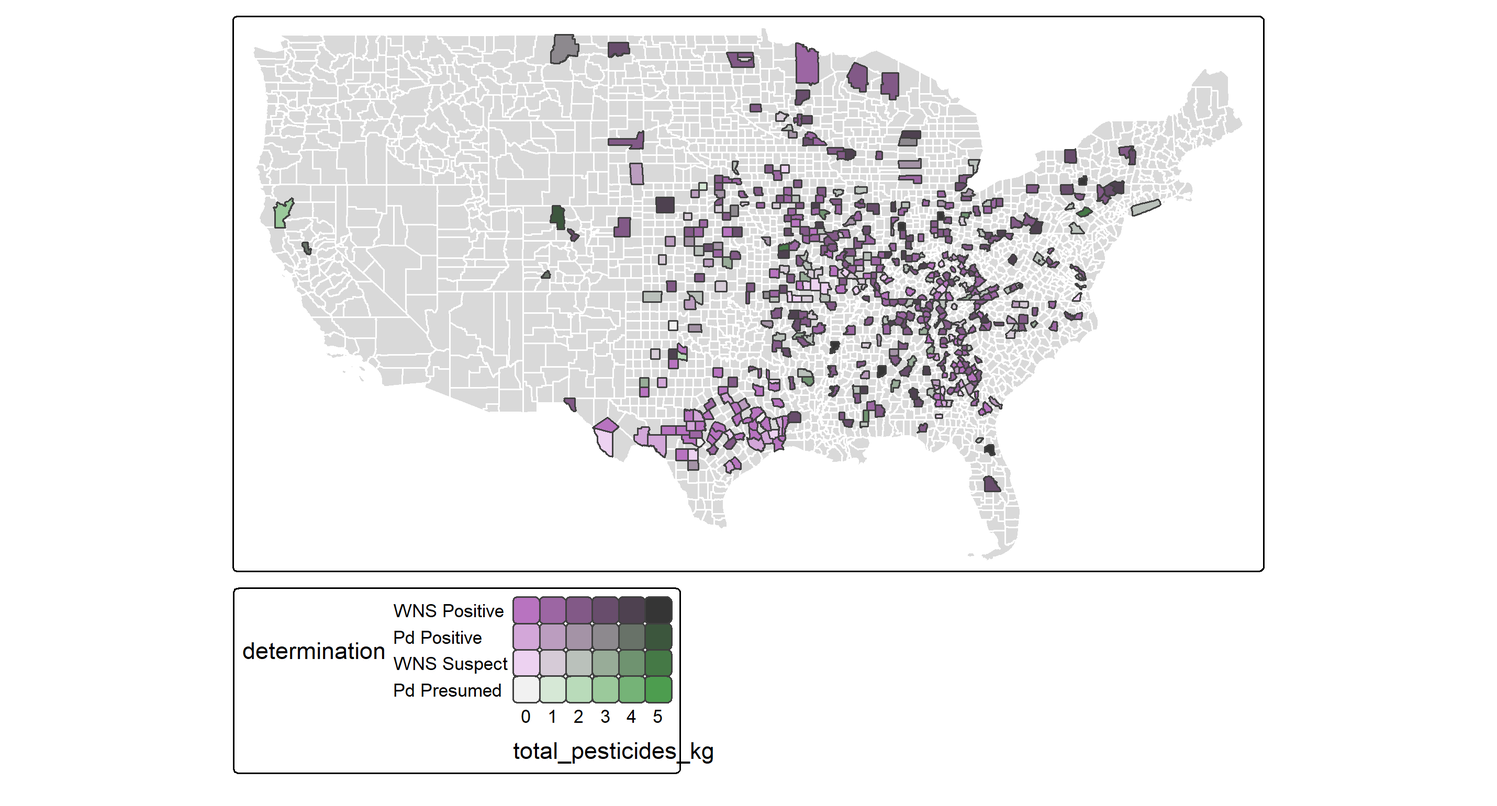
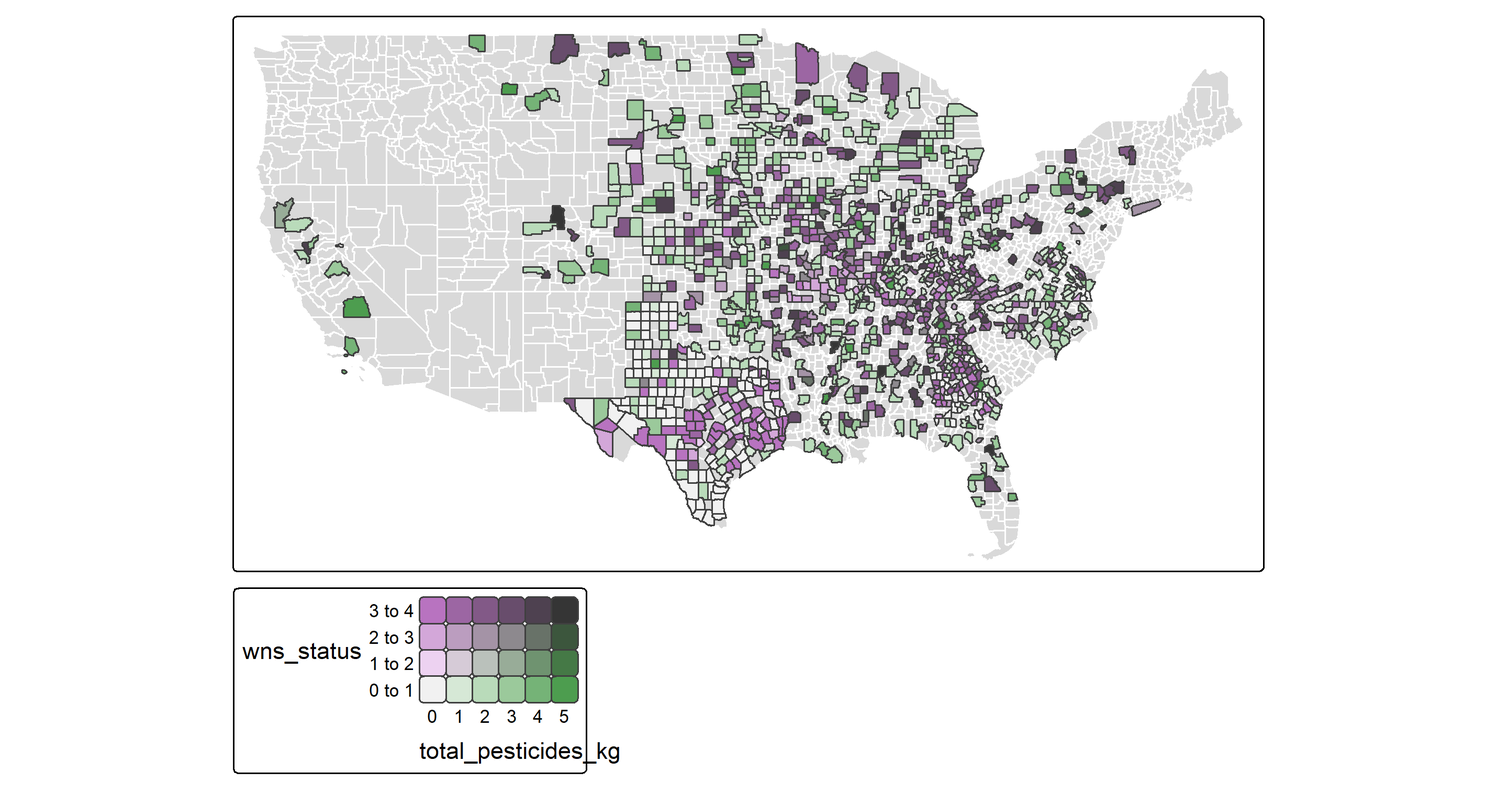
thurs morn work sesh :)

diff --git a/esm217-wns.html b/esm217-wns.html
@@ -7,7 +7,7 @@
 <meta name="viewport" content="width=device-width, initial-scale=1.0, user-scalable=yes">
 
 <meta name="author" content="Madi Calbert &amp; Steven Mitchell">
-<meta name="dcterms.date" content="2025-02-06">
+<meta name="dcterms.date" content="2025-02-13">
 
 <title>White-Nose Syndrome and Pesticides</title>
 <style>
@@ -81,7 +81,8 @@ pre > code.sourceCode > span > a:first-child::before { text-decoration: underlin
     <h2 id="toc-title">Table of contents</h2>
    
   <ul>
-  <li><a href="#proposal" id="toc-proposal" class="nav-link active" data-scroll-target="#proposal">Proposal</a>
+  <li><a href="#proposal" id="toc-proposal" class="nav-link active" data-scroll-target="#proposal">Proposal</a></li>
+  <li><a href="#data-exploration" id="toc-data-exploration" class="nav-link" data-scroll-target="#data-exploration">Data Exploration</a>
   <ul class="collapse">
   <li><a href="#setup" id="toc-setup" class="nav-link" data-scroll-target="#setup">Setup</a>
   <ul class="collapse">
@@ -117,7 +118,7 @@ pre > code.sourceCode > span > a:first-child::before { text-decoration: underlin
     <div>
     <div class="quarto-title-meta-heading">Published</div>
     <div class="quarto-title-meta-contents">
-      <p class="date">February 6, 2025</p>
+      <p class="date">February 13, 2025</p>
     </div>
   </div>
   
@@ -138,7 +139,9 @@ pre > code.sourceCode > span > a:first-child::before { text-decoration: underlin
 <section id="proposal" class="level1">
 <h1>Proposal</h1>
 <p>We will investigate the impacts to crop production from an infectious fungal disease affecting bats.The fungus <em>Pseudogymnoascus destructans</em> causes white-nose syndrome in hibernating bats and has spread across the United States. Declining bat populations are expected to have substantial impacts on the environment, specifically agriculture. Bats eat insects that damage crops and the consumption of these insects by bats saves farmers billions of dollars in pest control services annually. We will map white-nose syndrome occurrence and pesticide use by county across the US. The white-nose syndrome data from USGS is a time series of categorical presence/absence data. The pesticide use data is a time series of continuous concentration data. We will run a linear regression to quantify the relationship between white-nose syndrome detection and pesticide use. Time allowing, we will take it a step further by incorporating public health data and run a linear regression between pesticide use and negative health outcomes.</p>
-<p>#Data Exploration</p>
+</section>
+<section id="data-exploration" class="level1">
+<h1>Data Exploration</h1>
 <section id="setup" class="level2">
 <h2 class="anchored" data-anchor-id="setup">Setup</h2>
 <section id="libraries" class="level3">
@@ -150,7 +153,8 @@ pre > code.sourceCode > span > a:first-child::before { text-decoration: underlin
 <span id="cb1-2"><a href="#cb1-2" aria-hidden="true" tabindex="-1"></a><span class="fu">library</span>(tidyverse)</span>
 <span id="cb1-3"><a href="#cb1-3" aria-hidden="true" tabindex="-1"></a><span class="fu">library</span>(sf)</span>
 <span id="cb1-4"><a href="#cb1-4" aria-hidden="true" tabindex="-1"></a><span class="fu">library</span>(tmap)</span>
-<span id="cb1-5"><a href="#cb1-5" aria-hidden="true" tabindex="-1"></a><span class="fu">library</span>(viridisLite)</span></code><button title="Copy to Clipboard" class="code-copy-button"><i class="bi"></i></button></pre></div>
+<span id="cb1-5"><a href="#cb1-5" aria-hidden="true" tabindex="-1"></a><span class="fu">library</span>(viridisLite)</span>
+<span id="cb1-6"><a href="#cb1-6" aria-hidden="true" tabindex="-1"></a><span class="fu">library</span>(biscale)</span></code><button title="Copy to Clipboard" class="code-copy-button"><i class="bi"></i></button></pre></div>
 </details>
 </div>
 </section>
@@ -187,7 +191,7 @@ pre > code.sourceCode > span > a:first-child::before { text-decoration: underlin
 <span id="cb3-3"><a href="#cb3-3" aria-hidden="true" tabindex="-1"></a></span>
 <span id="cb3-4"><a href="#cb3-4" aria-hidden="true" tabindex="-1"></a><span class="co"># join them</span></span>
 <span id="cb3-5"><a href="#cb3-5" aria-hidden="true" tabindex="-1"></a>wns_counties <span class="ot">&lt;-</span> <span class="fu">left_join</span>(counties, wns, <span class="at">by =</span> <span class="st">"county"</span>) <span class="sc">%&gt;%</span> </span>
-<span id="cb3-6"><a href="#cb3-6" aria-hidden="true" tabindex="-1"></a>  <span class="fu">mutate</span>(<span class="at">determination =</span> <span class="fu">factor</span>(determination, <span class="at">levels =</span> <span class="fu">c</span>(<span class="st">"Pd Presumed"</span>, <span class="st">"WNS Suspect"</span>, <span class="st">"Pd Positive"</span>, <span class="st">"WNS Positive"</span>)))</span>
+<span id="cb3-6"><a href="#cb3-6" aria-hidden="true" tabindex="-1"></a>  <span class="fu">mutate</span>(<span class="at">determination =</span> <span class="fu">factor</span>(determination, <span class="at">levels =</span> <span class="fu">c</span>(<span class="st">"Pd Presumed"</span>, <span class="st">"WNS Suspect"</span>, <span class="st">"Pd Positive"</span>, <span class="st">"WNS Positive"</span>), <span class="at">ordered =</span> <span class="cn">TRUE</span>))</span>
 <span id="cb3-7"><a href="#cb3-7" aria-hidden="true" tabindex="-1"></a></span>
 <span id="cb3-8"><a href="#cb3-8" aria-hidden="true" tabindex="-1"></a><span class="co"># Exploratory WNS-by-County Map</span></span>
 <span id="cb3-9"><a href="#cb3-9" aria-hidden="true" tabindex="-1"></a>map_wns_counties <span class="ot">&lt;-</span> <span class="fu">tm_shape</span>(wns_counties, <span class="at">bbox =</span> bbox)<span class="sc">+</span></span>
@@ -201,7 +205,7 @@ pre > code.sourceCode > span > a:first-child::before { text-decoration: underlin
 <span id="cb3-17"><a href="#cb3-17" aria-hidden="true" tabindex="-1"></a>            <span class="at">title.position =</span> <span class="fu">c</span>(<span class="st">"left"</span>, <span class="st">"bottom"</span>),</span>
 <span id="cb3-18"><a href="#cb3-18" aria-hidden="true" tabindex="-1"></a>            <span class="at">legend.position =</span> <span class="fu">c</span>(<span class="st">"right"</span>, <span class="st">"bottom"</span>))</span>
 <span id="cb3-19"><a href="#cb3-19" aria-hidden="true" tabindex="-1"></a></span>
-<span id="cb3-20"><a href="#cb3-20" aria-hidden="true" tabindex="-1"></a><span class="fu">tmap_save</span>(map_wns_counties, <span class="fu">here</span>(<span class="st">"outputs"</span>, <span class="st">"map_wns_counties.png"</span>))</span></code><button title="Copy to Clipboard" class="code-copy-button"><i class="bi"></i></button></pre></div>
+<span id="cb3-20"><a href="#cb3-20" aria-hidden="true" tabindex="-1"></a><span class="co"># tmap_save(map_wns_counties, here("outputs", "map_wns_counties.png"))</span></span></code><button title="Copy to Clipboard" class="code-copy-button"><i class="bi"></i></button></pre></div>
 </details>
 </div>
 <p><img src="outputs/map_wns_counties.png" class="img-fluid"></p>
@@ -221,26 +225,23 @@ pre > code.sourceCode > span > a:first-child::before { text-decoration: underlin
 <span id="cb4-8"><a href="#cb4-8" aria-hidden="true" tabindex="-1"></a><span class="co"># join them</span></span>
 <span id="cb4-9"><a href="#cb4-9" aria-hidden="true" tabindex="-1"></a>pesticides_counties <span class="ot">&lt;-</span> <span class="fu">left_join</span>(counties, pesticides, <span class="at">by =</span> <span class="st">"COUNTYFP"</span>) </span>
 <span id="cb4-10"><a href="#cb4-10" aria-hidden="true" tabindex="-1"></a></span>
-<span id="cb4-11"><a href="#cb4-11" aria-hidden="true" tabindex="-1"></a>pest_test <span class="ot">&lt;-</span> pesticides_counties <span class="sc">%&gt;%</span> </span>
-<span id="cb4-12"><a href="#cb4-12" aria-hidden="true" tabindex="-1"></a>    <span class="fu">filter</span>(YEAR <span class="sc">==</span> <span class="dv">2017</span>)</span>
-<span id="cb4-13"><a href="#cb4-13" aria-hidden="true" tabindex="-1"></a></span>
-<span id="cb4-14"><a href="#cb4-14" aria-hidden="true" tabindex="-1"></a>map_pesticides_counties <span class="ot">&lt;-</span> <span class="fu">tm_shape</span>(pesticides_counties, <span class="at">bbox =</span> bbox)<span class="sc">+</span></span>
-<span id="cb4-15"><a href="#cb4-15" aria-hidden="true" tabindex="-1"></a>  <span class="fu">tm_polygons</span>(<span class="at">col =</span> <span class="st">"total_pesticides_kg"</span>,</span>
-<span id="cb4-16"><a href="#cb4-16" aria-hidden="true" tabindex="-1"></a>              <span class="at">palette =</span> pesticide_palette,</span>
-<span id="cb4-17"><a href="#cb4-17" aria-hidden="true" tabindex="-1"></a>              <span class="at">breaks =</span> <span class="fu">quantile</span>(pesticides_counties<span class="sc">$</span>total_pesticides_kg,</span>
-<span id="cb4-18"><a href="#cb4-18" aria-hidden="true" tabindex="-1"></a>                                <span class="at">probs =</span> <span class="fu">seq</span>(<span class="dv">0</span>, <span class="dv">1</span>, <span class="at">by =</span> <span class="fl">0.10</span>), <span class="at">na.rm =</span> <span class="cn">TRUE</span>),</span>
-<span id="cb4-19"><a href="#cb4-19" aria-hidden="true" tabindex="-1"></a>              <span class="at">title =</span> <span class="st">"Total Pesticide Use (Kg)"</span>,</span>
-<span id="cb4-20"><a href="#cb4-20" aria-hidden="true" tabindex="-1"></a>              <span class="at">NA.col =</span> <span class="st">"white"</span>,</span>
-<span id="cb4-21"><a href="#cb4-21" aria-hidden="true" tabindex="-1"></a>              <span class="at">labels =</span> <span class="fu">c</span>(<span class="st">"0 - 62 K"</span>, <span class="st">"62 - 518 K"</span>, <span class="st">"518 K - 1.3 mil"</span>, <span class="st">"1.3 - 1.7 mil"</span>, </span>
-<span id="cb4-22"><a href="#cb4-22" aria-hidden="true" tabindex="-1"></a>                         <span class="st">"1.7 - 2 mil"</span>, <span class="st">"2 - 2.2 mil"</span>, <span class="st">"2.2 - 2.4 mil"</span>, </span>
-<span id="cb4-23"><a href="#cb4-23" aria-hidden="true" tabindex="-1"></a>                         <span class="st">"2.4 - 2.6 mil"</span>, <span class="st">"2.6 - 3.1 mil"</span>,<span class="st">"3.1 - 5.9 mil"</span>))<span class="sc">+</span></span>
-<span id="cb4-24"><a href="#cb4-24" aria-hidden="true" tabindex="-1"></a>  <span class="fu">tm_compass</span>(<span class="at">position =</span> <span class="fu">c</span>(<span class="st">"left"</span>, <span class="st">"bottom"</span>))<span class="sc">+</span></span>
-<span id="cb4-25"><a href="#cb4-25" aria-hidden="true" tabindex="-1"></a>  <span class="fu">tm_scale_bar</span>(<span class="at">position =</span> <span class="fu">c</span>(<span class="st">"left"</span>, <span class="st">"bottom"</span>))<span class="sc">+</span></span>
-<span id="cb4-26"><a href="#cb4-26" aria-hidden="true" tabindex="-1"></a>  <span class="fu">tm_layout</span>(<span class="at">title =</span> <span class="st">"Pesticide Use by County"</span>,</span>
-<span id="cb4-27"><a href="#cb4-27" aria-hidden="true" tabindex="-1"></a>            <span class="at">title.position =</span> <span class="fu">c</span>(<span class="st">"left"</span>, <span class="st">"bottom"</span>),</span>
-<span id="cb4-28"><a href="#cb4-28" aria-hidden="true" tabindex="-1"></a>            <span class="at">legend.position =</span> <span class="fu">c</span>(<span class="st">"right"</span>, <span class="st">"bottom"</span>))</span>
-<span id="cb4-29"><a href="#cb4-29" aria-hidden="true" tabindex="-1"></a></span>
-<span id="cb4-30"><a href="#cb4-30" aria-hidden="true" tabindex="-1"></a><span class="fu">tmap_save</span>(map_pesticides_counties, <span class="fu">here</span>(<span class="st">"outputs"</span>, <span class="st">"map_pesticides_counties.png"</span>))</span></code><button title="Copy to Clipboard" class="code-copy-button"><i class="bi"></i></button></pre></div>
+<span id="cb4-11"><a href="#cb4-11" aria-hidden="true" tabindex="-1"></a>map_pesticides_counties <span class="ot">&lt;-</span> <span class="fu">tm_shape</span>(pesticides_counties, <span class="at">bbox =</span> bbox)<span class="sc">+</span></span>
+<span id="cb4-12"><a href="#cb4-12" aria-hidden="true" tabindex="-1"></a>  <span class="fu">tm_polygons</span>(<span class="at">col =</span> <span class="st">"total_pesticides_kg"</span>,</span>
+<span id="cb4-13"><a href="#cb4-13" aria-hidden="true" tabindex="-1"></a>              <span class="at">palette =</span> pesticide_palette,</span>
+<span id="cb4-14"><a href="#cb4-14" aria-hidden="true" tabindex="-1"></a>              <span class="at">breaks =</span> <span class="fu">quantile</span>(pesticides_counties<span class="sc">$</span>total_pesticides_kg,</span>
+<span id="cb4-15"><a href="#cb4-15" aria-hidden="true" tabindex="-1"></a>                                <span class="at">probs =</span> <span class="fu">seq</span>(<span class="dv">0</span>, <span class="dv">1</span>, <span class="at">by =</span> <span class="fl">0.10</span>), <span class="at">na.rm =</span> <span class="cn">TRUE</span>),</span>
+<span id="cb4-16"><a href="#cb4-16" aria-hidden="true" tabindex="-1"></a>              <span class="at">title =</span> <span class="st">"Total Pesticide Use (Kg)"</span>,</span>
+<span id="cb4-17"><a href="#cb4-17" aria-hidden="true" tabindex="-1"></a>              <span class="at">NA.col =</span> <span class="st">"white"</span>,</span>
+<span id="cb4-18"><a href="#cb4-18" aria-hidden="true" tabindex="-1"></a>              <span class="at">labels =</span> <span class="fu">c</span>(<span class="st">"0 - 62 K"</span>, <span class="st">"62 - 518 K"</span>, <span class="st">"518 K - 1.3 mil"</span>, <span class="st">"1.3 - 1.7 mil"</span>, </span>
+<span id="cb4-19"><a href="#cb4-19" aria-hidden="true" tabindex="-1"></a>                         <span class="st">"1.7 - 2 mil"</span>, <span class="st">"2 - 2.2 mil"</span>, <span class="st">"2.2 - 2.4 mil"</span>, </span>
+<span id="cb4-20"><a href="#cb4-20" aria-hidden="true" tabindex="-1"></a>                         <span class="st">"2.4 - 2.6 mil"</span>, <span class="st">"2.6 - 3.1 mil"</span>,<span class="st">"3.1 - 5.9 mil"</span>))<span class="sc">+</span></span>
+<span id="cb4-21"><a href="#cb4-21" aria-hidden="true" tabindex="-1"></a>  <span class="fu">tm_compass</span>(<span class="at">position =</span> <span class="fu">c</span>(<span class="st">"left"</span>, <span class="st">"bottom"</span>))<span class="sc">+</span></span>
+<span id="cb4-22"><a href="#cb4-22" aria-hidden="true" tabindex="-1"></a>  <span class="fu">tm_scale_bar</span>(<span class="at">position =</span> <span class="fu">c</span>(<span class="st">"left"</span>, <span class="st">"bottom"</span>))<span class="sc">+</span></span>
+<span id="cb4-23"><a href="#cb4-23" aria-hidden="true" tabindex="-1"></a>  <span class="fu">tm_layout</span>(<span class="at">title =</span> <span class="st">"Pesticide Use by County"</span>,</span>
+<span id="cb4-24"><a href="#cb4-24" aria-hidden="true" tabindex="-1"></a>            <span class="at">title.position =</span> <span class="fu">c</span>(<span class="st">"left"</span>, <span class="st">"bottom"</span>),</span>
+<span id="cb4-25"><a href="#cb4-25" aria-hidden="true" tabindex="-1"></a>            <span class="at">legend.position =</span> <span class="fu">c</span>(<span class="st">"right"</span>, <span class="st">"bottom"</span>))</span>
+<span id="cb4-26"><a href="#cb4-26" aria-hidden="true" tabindex="-1"></a></span>
+<span id="cb4-27"><a href="#cb4-27" aria-hidden="true" tabindex="-1"></a><span class="co"># tmap_save(map_pesticides_counties, here("outputs", "map_pesticides_counties.png"))</span></span></code><button title="Copy to Clipboard" class="code-copy-button"><i class="bi"></i></button></pre></div>
 </details>
 </div>
 <p><img src="outputs/map_pesticides_counties.png" class="img-fluid"></p>
@@ -250,39 +251,45 @@ pre > code.sourceCode > span > a:first-child::before { text-decoration: underlin
 <div class="cell">
 <details class="code-fold">
 <summary>Code</summary>
-<div class="sourceCode cell-code" id="cb5"><pre class="sourceCode r code-with-copy"><code class="sourceCode r"><span id="cb5-1"><a href="#cb5-1" aria-hidden="true" tabindex="-1"></a><span class="co"># join them</span></span>
-<span id="cb5-2"><a href="#cb5-2" aria-hidden="true" tabindex="-1"></a>wns_pesticides <span class="ot">&lt;-</span> <span class="fu">left_join</span>(wns_counties, pesticides, <span class="at">by =</span> <span class="st">"COUNTYFP"</span>) <span class="sc">%&gt;%</span> </span>
-<span id="cb5-3"><a href="#cb5-3" aria-hidden="true" tabindex="-1"></a>  <span class="fu">drop_na</span>(total_pesticides_kg) <span class="sc">%&gt;%</span> </span>
-<span id="cb5-4"><a href="#cb5-4" aria-hidden="true" tabindex="-1"></a>  <span class="fu">drop_na</span>(determination)</span>
-<span id="cb5-5"><a href="#cb5-5" aria-hidden="true" tabindex="-1"></a></span>
-<span id="cb5-6"><a href="#cb5-6" aria-hidden="true" tabindex="-1"></a><span class="co"># Create the map with two color layers for pesticide use and WNS</span></span>
-<span id="cb5-7"><a href="#cb5-7" aria-hidden="true" tabindex="-1"></a>map_wns_pesticides <span class="ot">&lt;-</span>   <span class="fu">tm_shape</span>(counties, <span class="at">bbox =</span> bbox)<span class="sc">+</span></span>
-<span id="cb5-8"><a href="#cb5-8" aria-hidden="true" tabindex="-1"></a>  <span class="fu">tm_polygons</span>(<span class="at">col =</span> <span class="st">"white"</span>)<span class="sc">+</span></span>
-<span id="cb5-9"><a href="#cb5-9" aria-hidden="true" tabindex="-1"></a>  <span class="fu">tm_shape</span>(wns_pesticides) <span class="sc">+</span></span>
-<span id="cb5-10"><a href="#cb5-10" aria-hidden="true" tabindex="-1"></a>  <span class="fu">tm_polygons</span>(<span class="at">col =</span> <span class="st">"total_pesticides_kg"</span>, </span>
-<span id="cb5-11"><a href="#cb5-11" aria-hidden="true" tabindex="-1"></a>              <span class="at">palette =</span> pesticide_palette,</span>
-<span id="cb5-12"><a href="#cb5-12" aria-hidden="true" tabindex="-1"></a>              <span class="at">breaks =</span> <span class="fu">quantile</span>(pesticides_counties<span class="sc">$</span>total_pesticides_kg,</span>
-<span id="cb5-13"><a href="#cb5-13" aria-hidden="true" tabindex="-1"></a>                                <span class="at">probs =</span> <span class="fu">seq</span>(<span class="dv">0</span>, <span class="dv">1</span>, <span class="at">by =</span> <span class="fl">0.10</span>), <span class="at">na.rm =</span> <span class="cn">TRUE</span>),</span>
-<span id="cb5-14"><a href="#cb5-14" aria-hidden="true" tabindex="-1"></a>              <span class="at">title =</span> <span class="st">"Total Pesticide Use (Kg)"</span>,</span>
-<span id="cb5-15"><a href="#cb5-15" aria-hidden="true" tabindex="-1"></a>              <span class="at">labels =</span> <span class="fu">c</span>(<span class="st">"0 - 62 K"</span>, <span class="st">"62 - 518 K"</span>, <span class="st">"518 K - 1.3 mil"</span>, <span class="st">"1.3 - 1.7 mil"</span>, </span>
-<span id="cb5-16"><a href="#cb5-16" aria-hidden="true" tabindex="-1"></a>                         <span class="st">"1.7 - 2 mil"</span>, <span class="st">"2 - 2.2 mil"</span>, <span class="st">"2.2 - 2.4 mil"</span>, </span>
-<span id="cb5-17"><a href="#cb5-17" aria-hidden="true" tabindex="-1"></a>                         <span class="st">"2.4 - 2.6 mil"</span>, <span class="st">"2.6 - 3.1 mil"</span>,<span class="st">"3.1 - 5.9 mil"</span>)) <span class="sc">+</span></span>
-<span id="cb5-18"><a href="#cb5-18" aria-hidden="true" tabindex="-1"></a>  <span class="fu">tm_shape</span>(wns_pesticides)<span class="sc">+</span></span>
-<span id="cb5-19"><a href="#cb5-19" aria-hidden="true" tabindex="-1"></a>  <span class="fu">tm_polygons</span>(<span class="at">col =</span> <span class="st">"determination"</span>, </span>
-<span id="cb5-20"><a href="#cb5-20" aria-hidden="true" tabindex="-1"></a>              <span class="at">palette =</span> wns_palette,      </span>
-<span id="cb5-21"><a href="#cb5-21" aria-hidden="true" tabindex="-1"></a>              <span class="at">style =</span> <span class="st">"cat"</span>,</span>
-<span id="cb5-22"><a href="#cb5-22" aria-hidden="true" tabindex="-1"></a>              <span class="at">alpha =</span> <span class="fl">0.7</span>,</span>
-<span id="cb5-23"><a href="#cb5-23" aria-hidden="true" tabindex="-1"></a>              <span class="at">title =</span> <span class="st">"WNS Determination"</span>) <span class="sc">+</span></span>
-<span id="cb5-24"><a href="#cb5-24" aria-hidden="true" tabindex="-1"></a>  <span class="fu">tm_compass</span>(<span class="at">position =</span> <span class="fu">c</span>(<span class="st">"left"</span>, <span class="st">"bottom"</span>)) <span class="sc">+</span></span>
-<span id="cb5-25"><a href="#cb5-25" aria-hidden="true" tabindex="-1"></a>  <span class="fu">tm_scale_bar</span>(<span class="at">position =</span> <span class="fu">c</span>(<span class="st">"left"</span>, <span class="st">"bottom"</span>)) <span class="sc">+</span></span>
-<span id="cb5-26"><a href="#cb5-26" aria-hidden="true" tabindex="-1"></a>  <span class="fu">tm_layout</span>(<span class="at">title =</span> <span class="st">"WNS and Pesticide Use by County"</span>,</span>
-<span id="cb5-27"><a href="#cb5-27" aria-hidden="true" tabindex="-1"></a>            <span class="at">title.position =</span> <span class="fu">c</span>(<span class="st">"left"</span>, <span class="st">"bottom"</span>),</span>
-<span id="cb5-28"><a href="#cb5-28" aria-hidden="true" tabindex="-1"></a>            <span class="at">legend.position =</span> <span class="fu">c</span>(<span class="st">"right"</span>, <span class="st">"bottom"</span>))</span>
-<span id="cb5-29"><a href="#cb5-29" aria-hidden="true" tabindex="-1"></a></span>
-<span id="cb5-30"><a href="#cb5-30" aria-hidden="true" tabindex="-1"></a><span class="fu">tmap_save</span>(map_wns_pesticides, <span class="fu">here</span>(<span class="st">"outputs"</span>, <span class="st">"map_wns_pesticides.png"</span>))</span></code><button title="Copy to Clipboard" class="code-copy-button"><i class="bi"></i></button></pre></div>
+<div class="sourceCode cell-code" id="cb5"><pre class="sourceCode r code-with-copy"><code class="sourceCode r"><span id="cb5-1"><a href="#cb5-1" aria-hidden="true" tabindex="-1"></a>wns_pesticides <span class="ot">&lt;-</span> <span class="fu">left_join</span>(wns_counties, pesticides, <span class="at">by =</span> <span class="st">"COUNTYFP"</span>) <span class="sc">%&gt;%</span> </span>
+<span id="cb5-2"><a href="#cb5-2" aria-hidden="true" tabindex="-1"></a>  <span class="fu">drop_na</span>(total_pesticides_kg) <span class="sc">%&gt;%</span> </span>
+<span id="cb5-3"><a href="#cb5-3" aria-hidden="true" tabindex="-1"></a>  <span class="fu">mutate</span>(<span class="at">wns_status =</span> <span class="fu">ifelse</span>(<span class="fu">is.na</span>(determination), <span class="dv">0</span>, <span class="fu">as.numeric</span>(determination)))</span>
+<span id="cb5-4"><a href="#cb5-4" aria-hidden="true" tabindex="-1"></a></span>
+<span id="cb5-5"><a href="#cb5-5" aria-hidden="true" tabindex="-1"></a><span class="fu">write_sf</span>(wns_pesticides, <span class="fu">here</span>(<span class="st">"data"</span>, <span class="st">"wns_pesticides.shp"</span>))</span>
+<span id="cb5-6"><a href="#cb5-6" aria-hidden="true" tabindex="-1"></a></span>
+<span id="cb5-7"><a href="#cb5-7" aria-hidden="true" tabindex="-1"></a>wns_pesticides_bivariate <span class="ot">&lt;-</span> <span class="fu">bi_class</span>(wns_pesticides,</span>
+<span id="cb5-8"><a href="#cb5-8" aria-hidden="true" tabindex="-1"></a>                 <span class="at">x =</span> wns_status, </span>
+<span id="cb5-9"><a href="#cb5-9" aria-hidden="true" tabindex="-1"></a>                 <span class="at">y =</span> total_pesticides_kg, </span>
+<span id="cb5-10"><a href="#cb5-10" aria-hidden="true" tabindex="-1"></a>                 <span class="at">style =</span> <span class="st">"quantile"</span>, <span class="at">dim =</span> <span class="dv">4</span>)</span></code><button title="Copy to Clipboard" class="code-copy-button"><i class="bi"></i></button></pre></div>
+</details>
+</div>
+<div class="cell">
+<details class="code-fold">
+<summary>Code</summary>
+<div class="sourceCode cell-code" id="cb6"><pre class="sourceCode r code-with-copy"><code class="sourceCode r"><span id="cb6-1"><a href="#cb6-1" aria-hidden="true" tabindex="-1"></a>map_wns_pesticides <span class="ot">&lt;-</span> <span class="fu">tm_shape</span>(counties, <span class="at">bbox =</span> bbox)<span class="sc">+</span></span>
+<span id="cb6-2"><a href="#cb6-2" aria-hidden="true" tabindex="-1"></a>  <span class="fu">tm_polygons</span>(<span class="at">col =</span> <span class="st">"white"</span>)<span class="sc">+</span></span>
+<span id="cb6-3"><a href="#cb6-3" aria-hidden="true" tabindex="-1"></a>  <span class="fu">tm_shape</span>(wns_pesticides)<span class="sc">+</span></span>
+<span id="cb6-4"><a href="#cb6-4" aria-hidden="true" tabindex="-1"></a>  <span class="fu">tm_polygons</span>(<span class="fu">tm_vars</span>(<span class="fu">c</span>(<span class="st">"wns_status"</span>, <span class="st">"total_pesticides_kg"</span>), </span>
+<span id="cb6-5"><a href="#cb6-5" aria-hidden="true" tabindex="-1"></a>                      <span class="at">multivariate =</span> <span class="cn">TRUE</span>),</span>
+<span id="cb6-6"><a href="#cb6-6" aria-hidden="true" tabindex="-1"></a>              <span class="at">fill.scale =</span> <span class="fu">tm_scale</span>(<span class="st">"DkBlue2"</span>))</span>
+<span id="cb6-7"><a href="#cb6-7" aria-hidden="true" tabindex="-1"></a>map_wns_pesticides</span>
+<span id="cb6-8"><a href="#cb6-8" aria-hidden="true" tabindex="-1"></a></span>
+<span id="cb6-9"><a href="#cb6-9" aria-hidden="true" tabindex="-1"></a><span class="fu">tmap_save</span>(map_wns_pesticides, <span class="fu">here</span>(<span class="st">"outputs"</span>, <span class="st">"map_wns_pesticides.png"</span>))</span></code><button title="Copy to Clipboard" class="code-copy-button"><i class="bi"></i></button></pre></div>
 </details>
 </div>
 <p><img src="outputs/map_wns_pesticides.png" class="img-fluid"></p>
+<div class="cell">
+<details class="code-fold">
+<summary>Code</summary>
+<div class="sourceCode cell-code" id="cb7"><pre class="sourceCode r code-with-copy"><code class="sourceCode r"><span id="cb7-1"><a href="#cb7-1" aria-hidden="true" tabindex="-1"></a><span class="co">#ggplot()+</span></span>
+<span id="cb7-2"><a href="#cb7-2" aria-hidden="true" tabindex="-1"></a><span class="co">#  theme_void(base_size = 14)+</span></span>
+<span id="cb7-3"><a href="#cb7-3" aria-hidden="true" tabindex="-1"></a><span class="co">#  geom_sf(data = wns_pesticides_bivariate, mapping = aes(fill = bi_class), </span></span>
+<span id="cb7-4"><a href="#cb7-4" aria-hidden="true" tabindex="-1"></a><span class="co">#          color = NA , show.legend = FALSE)+</span></span>
+<span id="cb7-5"><a href="#cb7-5" aria-hidden="true" tabindex="-1"></a><span class="co">#  bi_scale_fill(pal = "DkBlue2", dim = 4)+</span></span>
+<span id="cb7-6"><a href="#cb7-6" aria-hidden="true" tabindex="-1"></a><span class="co">#  geom_sf(counties, aes(fill = NA), color = "black", linewidth = 0.20)+</span></span>
+<span id="cb7-7"><a href="#cb7-7" aria-hidden="true" tabindex="-1"></a><span class="co">#  bi_theme()</span></span></code><button title="Copy to Clipboard" class="code-copy-button"><i class="bi"></i></button></pre></div>
+</details>
+</div>
 </section>
 </section>
 
